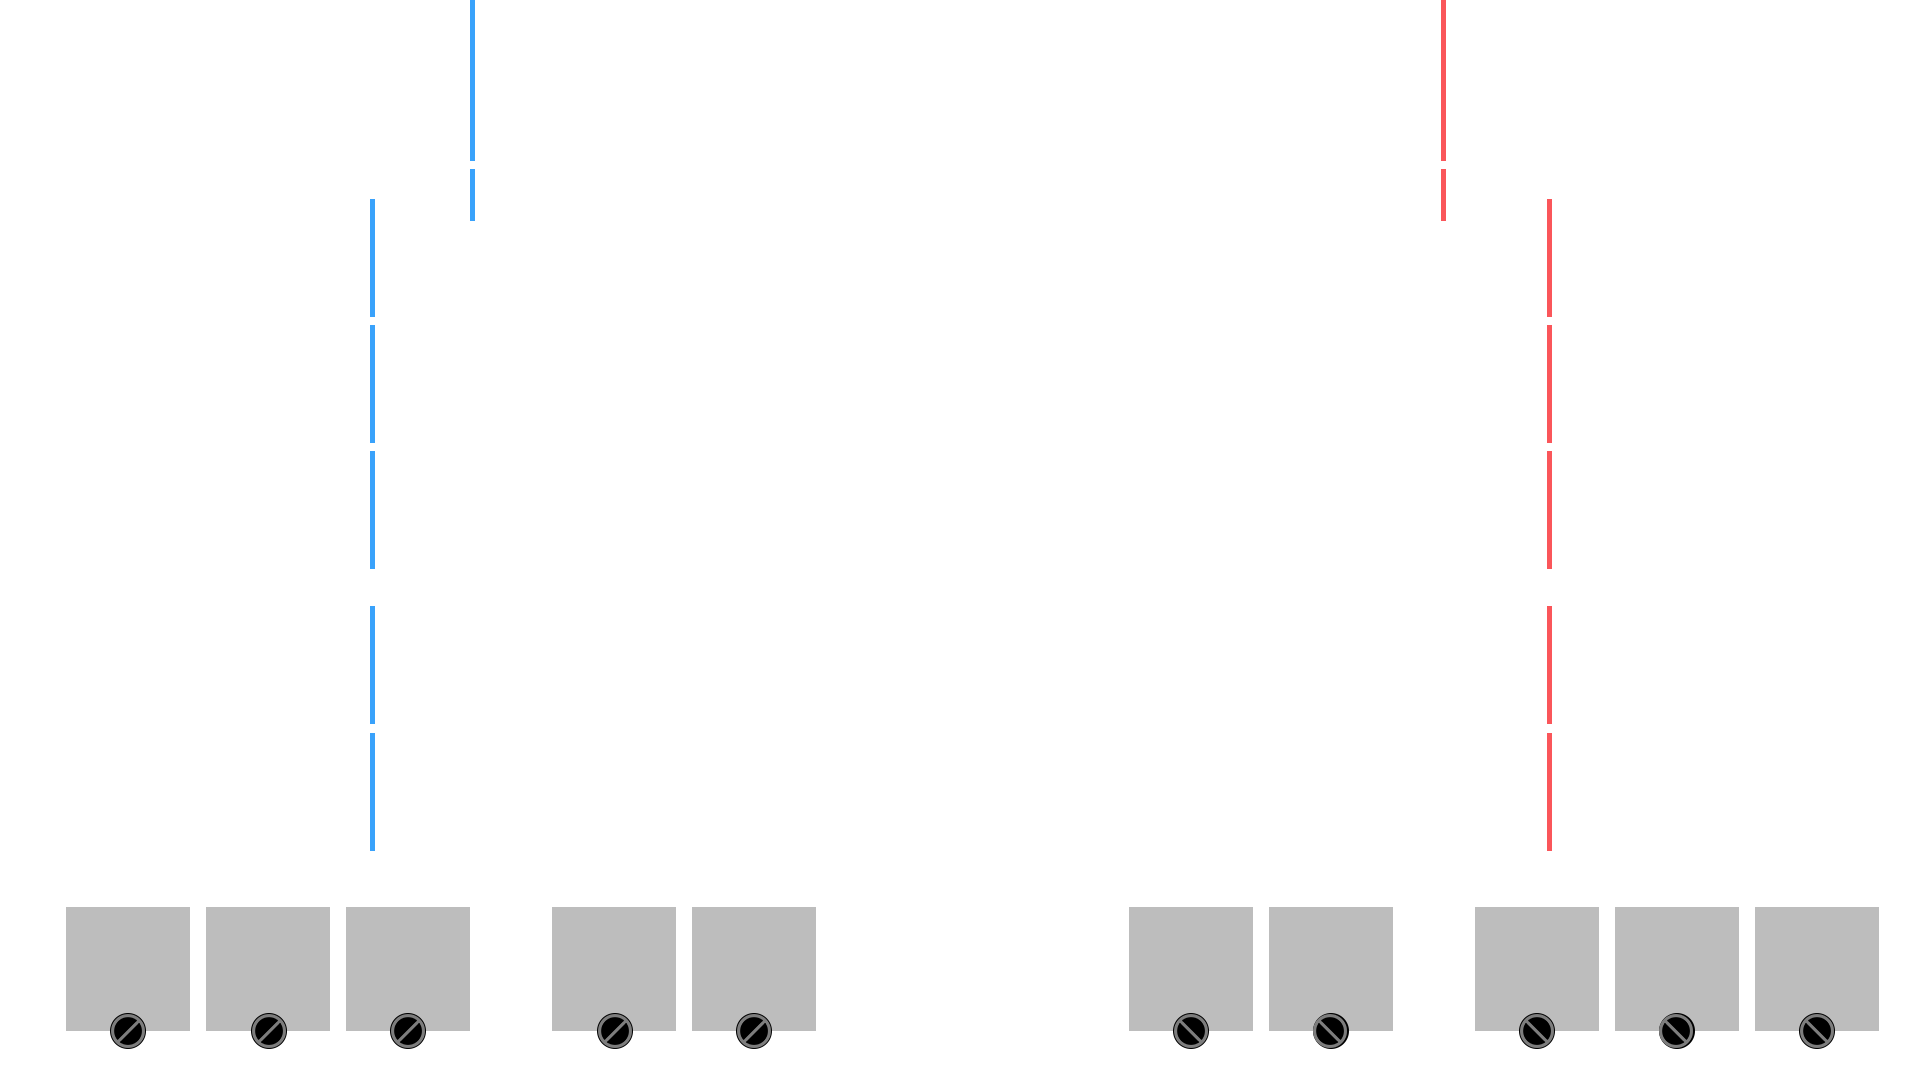
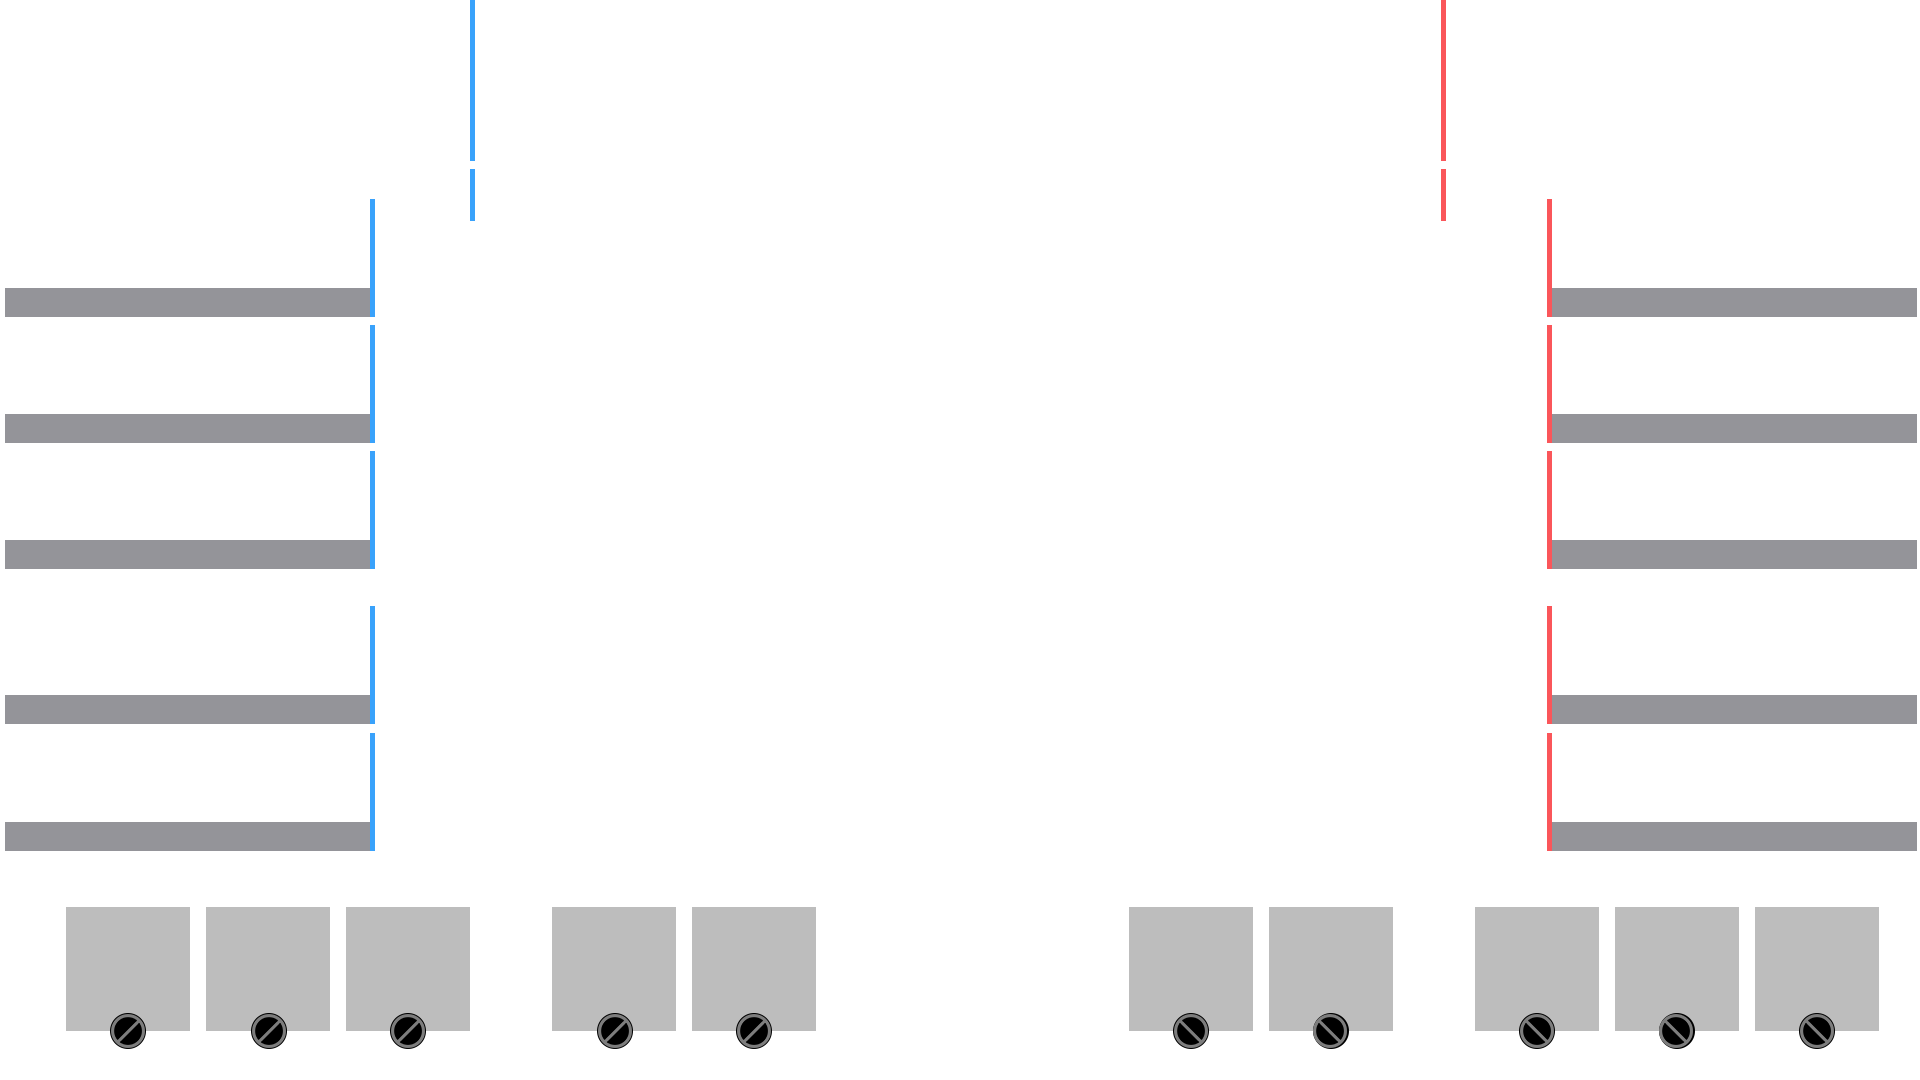
Remapping for new design

diff --git a/public/css/champ-select.css b/public/css/champ-select.css
@@ -116,14 +116,7 @@ body {
     width: 156px;
     height: 124px;
     background-size: cover;
-}
-
-.blue.ban-image {
-    clip-path: polygon(0 0, 79% 0, 100% 100%, 21% 100%);
-}
-
-.red.ban-image {
-    clip-path: polygon(21% 0, 100% 0, 79% 100%, 0% 100%);
+    clip-path: polygon(11.5% 0, 91% 0, 91% 100%, 11.5% 100%);
 }
 
 #b-0 {
@@ -133,47 +126,47 @@ body {
 
 #b-1 {
     top: 907px;
-    left: 1725px;
+    left: 1737px;
 }
 
 #b-2 {
     top: 907px;
-    left: 177px;
+    left: 188px;
 }
 
 #b-3 {
     top: 907px;
-    left: 1596px;
+    left: 1597px;
 }
 
 #b-4 {
     top: 907px;
-    left: 305px;
+    left: 328px;
 }
 
 #b-5 {
     top: 907px;
-    left: 1469px;
+    left: 1457px;
 }
 
 #b-6 {
     top: 907px;
-    left: 1294px;
+    left: 1251px;
 }
 
 #b-7 {
     top: 907px;
-    left: 477px;
+    left: 534px;
 }
 
 #b-8 {
     top: 907px;
-    left: 1167px;
+    left: 1111px;
 }
 
 #b-9 {
     top: 907px;
-    left: 604px;
+    left: 674px;
 }
 
 /* TEXT */

diff --git a/server/app.js b/server/app.js
@@ -209,12 +209,12 @@ app.post('/events/champ-select', jsonParser, function(req, res) {
             var slot = req.body.cell_id
 
             champSelect.summoners[slot].champ_id = champId
-console.log('emit')
+
             streamio.emit('trade', {
                 pick_slot: slot,
                 champ_id: champId
             })
-console.log('emitted')
+
             break
 
         case 'delete':
